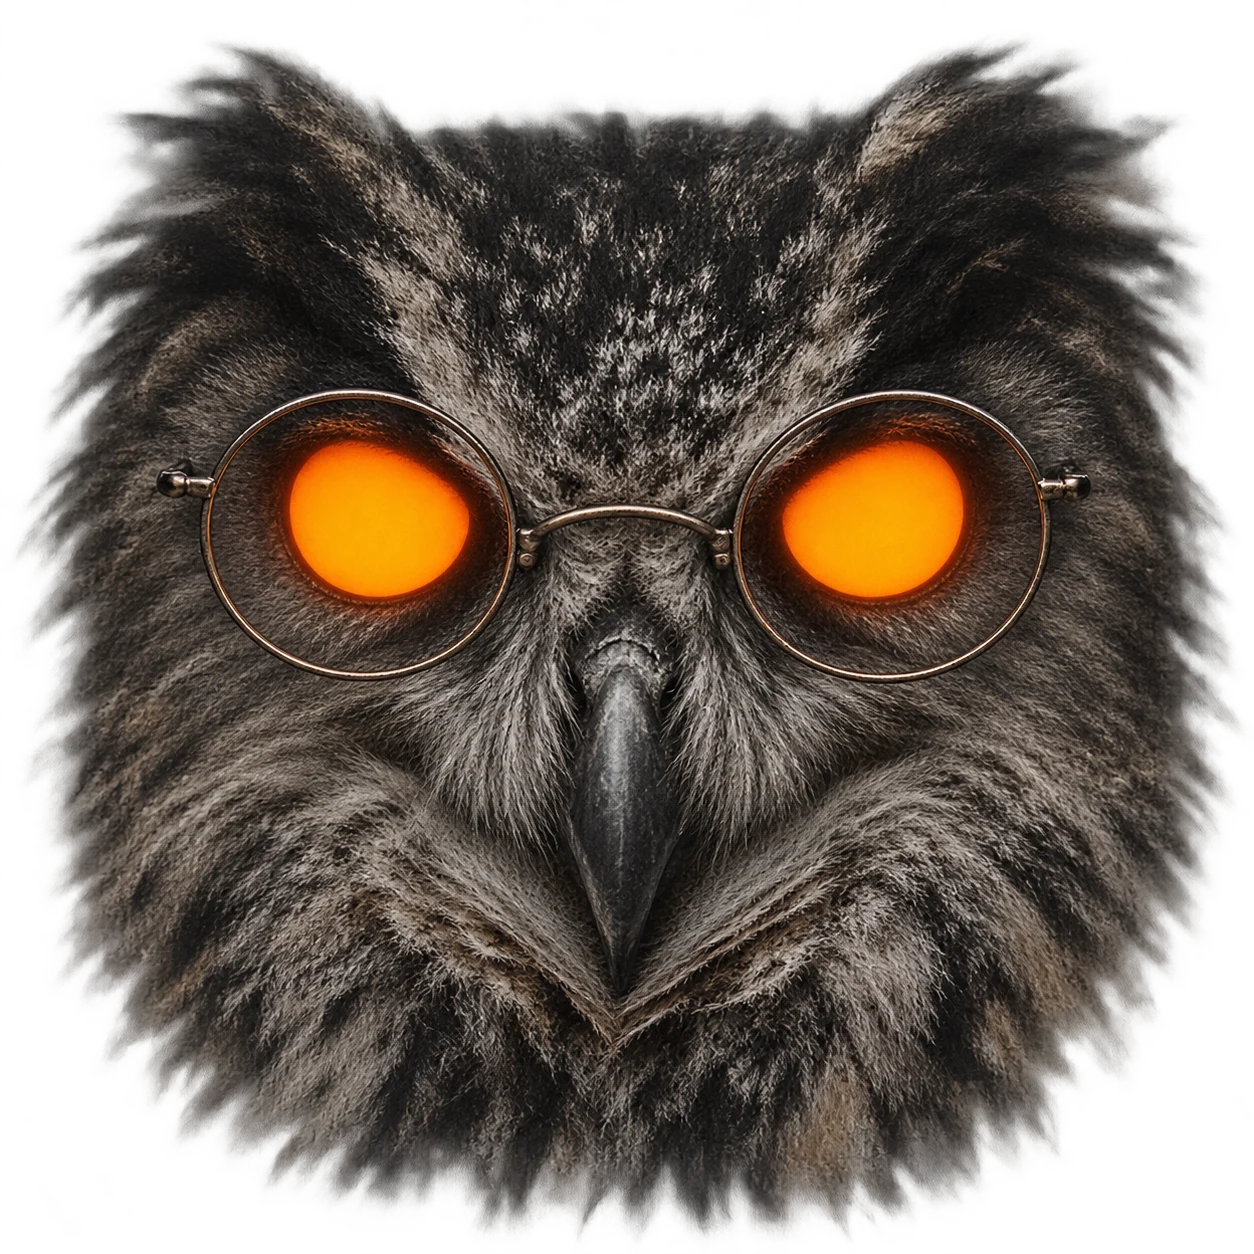
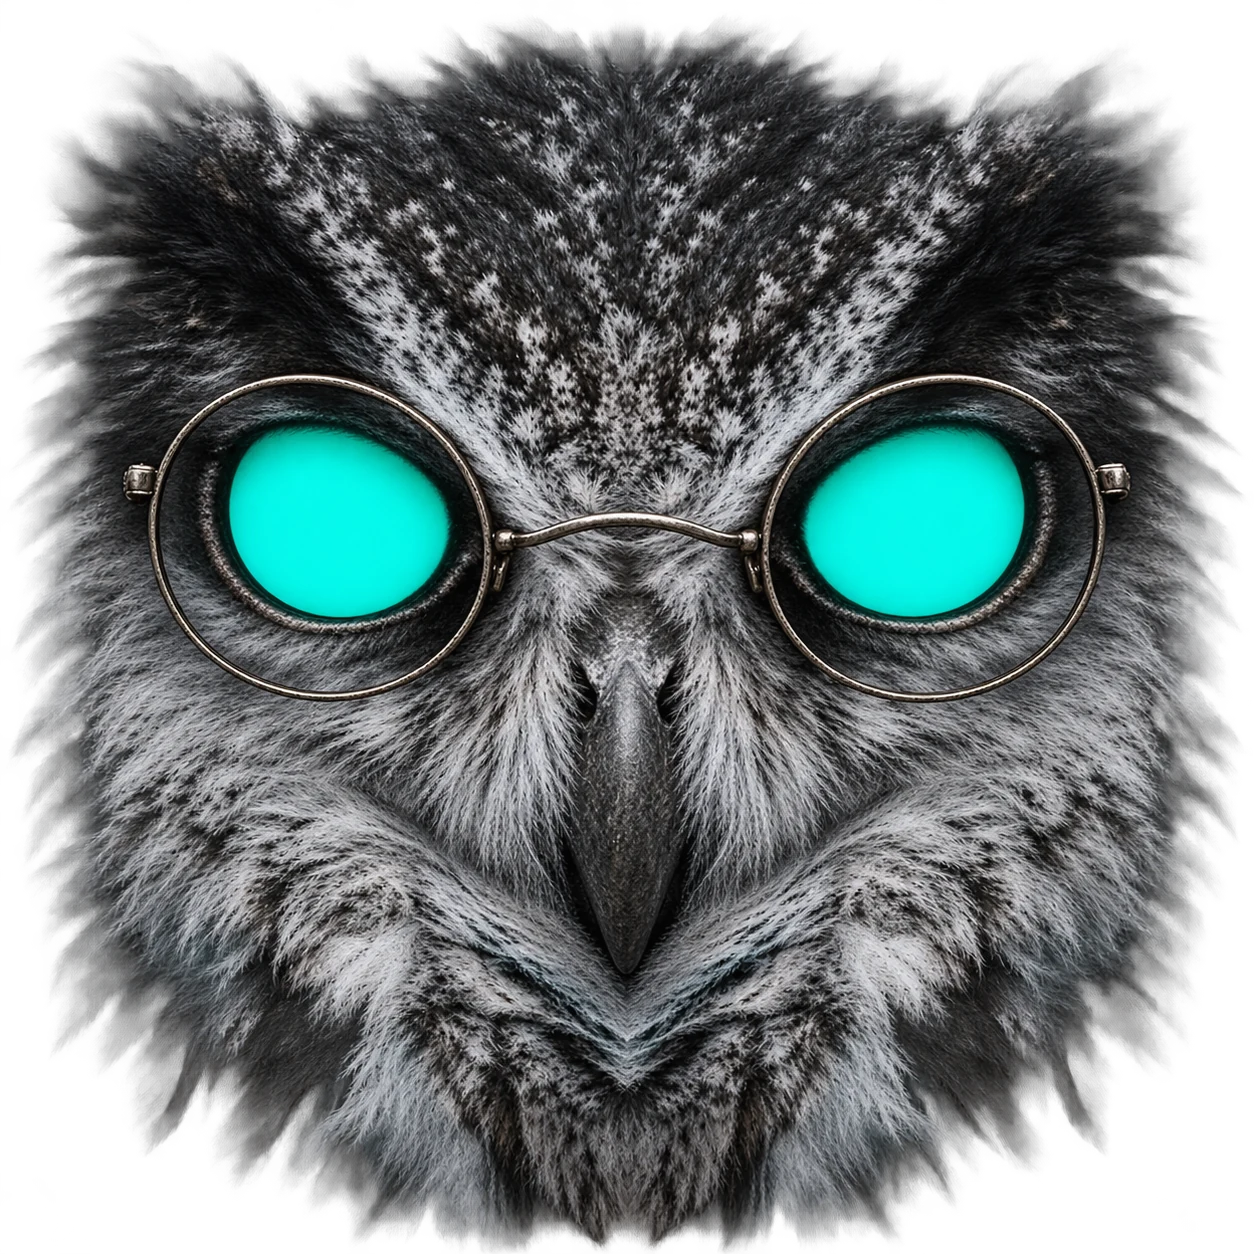
T39B: bộ ảnh cú xám mắt lam ngọc, cử động theo con trỏ, vẫy cánh bằng khung hình
Ảnh mới hiệu chuẩn lại; mắt bầu dục nên rig lưu rx/ry. Mỗi biến thể một
<img> nạp sẵn bật/tắt bằng opacity, tọa độ mắt riêng từng biến thể. Cử
động: mặt xoay đầu 3D theo con trỏ, giáo sư nghiêng người, thở, gật/rung
theo phán quyết, vẫy cánh khi tấm giới thiệu hiện và khi bấm. PROMPTS.md
thêm bốn cử chỉ cần ảnh (wave, think, shock, happy) — trang tự dùng khi có.

diff --git a/src/vihallulens/serve/static/index.html b/src/vihallulens/serve/static/index.html
@@ -80,7 +80,13 @@
   .side .stat span { font-size: .82rem; display: block; }
   @media (max-width: 1100px) { .side { display: none; } }
   .layer { position: absolute; left: 50%; top: 50%; transform: translate(-50%, -50%); will-change: transform, opacity; }
+  .layer .inner, .layer .breath { position: absolute; inset: 0; transform-origin: 50% 100%; }
+  .layer .inner { transition: transform .25s ease-out; }
+  #prof .breath { animation: breath 4.2s ease-in-out infinite; }
+  @keyframes breath { 50% { transform: scaleY(1.012) scaleX(.996); } }
+  .layer.nod .inner { animation: nod .7s; } .layer.shake .inner { animation: shake .45s; }
   .layer img, .layer svg.fallback { position: absolute; inset: 0; width: 100%; height: 100%; object-fit: contain; display: block; }
+  .layer img.off { opacity: 0 !important; }
   .layer .eye { position: absolute; border-radius: 50%; transform: translate(-50%, -50%); }
   .layer .eye .iris { position: absolute; inset: 0; border-radius: 50%;
                       --i1: #e2fffb; --i2: #2ee6d4; --i3: #0b9d92; --i4: #063a37; --g: var(--eye-glow);
@@ -105,9 +111,9 @@
   body.boot.lids .layer .eye .lid { transform: scaleY(1); transition: transform .35s; }
   body.boot .layer .eye .iris { transition: box-shadow 1s; }
   body.boot .layer img, body.boot .layer svg.fallback { opacity: 0; }
-  .layer img, .layer svg.fallback { transition: opacity 1.2s ease; }
+  body.fade .layer img, body.fade .layer svg.fallback { transition: opacity 1.2s ease; }  /* only for the opening fade-in */
   #face { width: min(108vmin, 1100px); aspect-ratio: 1; z-index: 2; top: 60%; }
-  #prof { width: min(78vh, 620px); aspect-ratio: 4/5; z-index: 2; opacity: 0; pointer-events: none; }
+  #prof { width: min(78vh, 620px); aspect-ratio: 4/5; z-index: 2; opacity: 0; }
   #branch { position: absolute; left: -4%; bottom: 6%; width: 70vw; max-width: 900px; z-index: 3; opacity: 0; pointer-events: none; }
   #branch img { width: 100%; display: block; }
   #intro { position: absolute; z-index: 4; left: 50%; top: 50%; width: min(520px, 92vw); transform: translate(-50%, -50%); opacity: 0; pointer-events: none;
@@ -122,7 +128,7 @@
   @keyframes bob { 50% { transform: translate(-50%, 6px); } }
   /* the torch: everything dark except around the pointer */
   /* the torch is a mask on the owl itself: feathers show only around the pointer, text is never dimmed */
-  #face.torch > img, #face.torch > svg.fallback {
+  #face.torch img, #face.torch svg.fallback {
     -webkit-mask-image: radial-gradient(ellipse 26% 26% at var(--fx, 50%) var(--fy, 50%), #000 0, rgba(0,0,0,.85) 45%, rgba(0,0,0,.05) 100%);
     mask-image: radial-gradient(ellipse 26% 26% at var(--fx, 50%) var(--fy, 50%), #000 0, rgba(0,0,0,.85) 45%, rgba(0,0,0,.05) 100%); }
   #torch { display: none; }
@@ -703,35 +709,62 @@ GET  /health       loading | ok | error</code></pre>
     return tpl.outerHTML;
   }
   class OwlLayer {
+    // host > .inner (pointer-driven tilt/lean) > .breath (idle breathing) > img|svg + eyes
     constructor(host, kind, rig) {
-      this.host = host; this.kind = kind; this.eyes = [];
+      this.host = host; this.kind = kind; this.eyes = []; this.variant = "base"; this.busy = false;
       const cfg = rig && rig[kind];
       this.cfg = cfg || FALLBACK[kind];
-      host.innerHTML = "";
+      host.innerHTML = `<div class="inner"><div class="breath"></div></div>`;
+      this.stage = host.querySelector(".breath"); this.inner = host.querySelector(".inner");
       if (cfg && cfg.file) {
-        const img = document.createElement("img"); img.src = cfg.file; img.alt = ""; img.decoding = "async";
-        img.onerror = () => { this.cfg = FALLBACK[kind]; this.build(FALLBACK[kind].svg()); };
-        this.img = img; host.appendChild(img);
+        // one <img> per variant, all loaded up front; a variant change only toggles which one shows
+        this.imgs = {};
+        const add = (name, file) => { const img = document.createElement("img"); img.src = file; img.alt = ""; img.decoding = "async"; img.classList.toggle("off", name !== "base"); this.stage.appendChild(img); this.imgs[name] = img; return img; };
+        add("base", cfg.file).onerror = () => { this.cfg = FALLBACK[kind]; this.build(FALLBACK[kind].svg()); };
+        Object.entries(cfg.variants || {}).forEach(([name, v]) => add(name, v.file));
+        this.img = this.imgs.base;
         if (cfg.aspect) host.style.aspectRatio = String(cfg.aspect);
-        for (const k of Object.keys(cfg)) if (/^img\//.test(String(cfg[k])) && k !== "file") { const pre = new Image(); pre.src = cfg[k]; }  // variants swap instantly
-        this.buildEyes();
+        this.buildEyes(cfg.eyes);
       } else this.build(FALLBACK[kind].svg());
     }
-    build(svg) { this.host.querySelectorAll("img, svg.fallback, .eye").forEach((n) => n.remove()); this.host.insertAdjacentHTML("afterbegin", svg); this.buildEyes(); }
-    buildEyes() {
-      this.host.querySelectorAll(".eye").forEach((n) => n.remove()); this.eyes = [];
-      this.cfg.eyes.forEach((e, i) => {
+    build(svg) { this.stage.querySelectorAll("img, svg.fallback").forEach((n) => n.remove()); this.img = null; this.imgs = null; this.stage.insertAdjacentHTML("afterbegin", svg); this.buildEyes(this.cfg.eyes); }
+    buildEyes(eyes) {
+      this.stage.querySelectorAll(".eye").forEach((n) => n.remove()); this.eyes = [];
+      const ar = this.cfg.aspect || (this.kind === "prof" ? 0.8 : 1), k = 1.06;  // a hair larger than the painted disc
+      eyes.forEach((e) => {
         const el = document.createElement("div"); el.className = "eye";
-        // r is a fraction of the image WIDTH; height uses the aspect so the eye stays round
-        const ar = this.cfg.aspect || (this.kind === "prof" ? 0.8 : 1);
+        const rx = e.rx ?? e.r, ry = e.ry ?? e.r * ar;   // fractions of width / height
         el.style.left = (100 * e.cx) + "%"; el.style.top = (100 * e.cy) + "%";
-        const k = 1.06;  // a hair larger than the painted disc; the glow covers the rest
-        el.style.width = (200 * e.r * k) + "%"; el.style.height = (200 * e.r * ar * k) + "%";
+        el.style.width = (200 * rx * k) + "%"; el.style.height = (200 * ry * k) + "%";
         el.innerHTML = `<div class="iris"></div><div class="pupil"></div><div class="lid"></div>`;
-        this.host.appendChild(el); this.eyes.push(el);
+        this.stage.appendChild(el); this.eyes.push(el);
       });
     }
-    setVariant(name) { if (!this.img || !this.cfg[name] && name !== "base") return; const want = name === "base" ? this.cfg.file : this.cfg[name]; if (this.img.getAttribute("src") !== want) this.img.src = want; }
+    has(name) { return !!(this.cfg.variants && this.cfg.variants[name]); }
+    setVariant(name) {
+      if (!this.img) return;
+      const v = name === "base" ? { file: this.cfg.file, eyes: this.cfg.eyes } : this.cfg.variants && this.cfg.variants[name];
+      if (!v || this.variant === name) return;
+      this.variant = name; Object.entries(this.imgs).forEach(([n, img]) => { img.classList.toggle("off", n !== name); }); this.buildEyes(v.eyes || this.cfg.eyes);
+    }
+    // play a list of [variant, ms] frames, then return to base
+    play(frames, done) {
+      if (!this.img || this.busy) return; this.busy = true;
+      const step = (i) => { if (i >= frames.length) { this.setVariant("base"); this.busy = false; done && done(); return; } this.setVariant(frames[i][0]); setTimeout(() => step(i + 1), frames[i][1]); };
+      step(0);
+    }
+    wave() {
+      const f = this.has("wave") ? [["point", 200], ["wave", 260], ["point", 220], ["wave", 260], ["point", 220]] : [["point", 260], ["base", 220], ["point", 260], ["base", 220], ["point", 300]];
+      this.play(f);
+    }
+    // pointer-driven body language: the face turns its head (3D tilt), the professor leans on his feet
+    lean(px, py, strength = 1) {
+      const r = this.host.getBoundingClientRect(); if (!r.width) return;
+      const nx = Math.max(-1, Math.min(1, (px - (r.left + r.width / 2)) / (innerWidth / 2)));
+      const ny = Math.max(-1, Math.min(1, (py - (r.top + r.height / 2)) / (innerHeight / 2)));
+      if (this.kind === "face") this.inner.style.transform = `perspective(1200px) rotateY(${(nx * 9 * strength).toFixed(2)}deg) rotateX(${(-ny * 6 * strength).toFixed(2)}deg)`;
+      else this.inner.style.transform = `rotate(${(nx * 4 * strength).toFixed(2)}deg) translateX(${(nx * 10 * strength).toFixed(1)}px)`;
+    }
     look(px, py) {
       if (this.host.classList.contains("sleep")) return;
       this.eyes.forEach((el) => {
@@ -740,8 +773,10 @@ GET  /health       loading | ok | error</code></pre>
         const m = Math.min(1, d / 300) * r.width * 0.22;
         el.querySelector(".pupil").style.transform = `translate(calc(-50% + ${(dx / d * m).toFixed(1)}px), calc(-50% + ${(dy / d * m).toFixed(1)}px))`;
       });
+      if (this.host.id === "face" || this.host.id === "prof") this.lean(px, py);
     }
     blink(ms = 140) { this.host.classList.add("blink"); setTimeout(() => this.host.classList.remove("blink"), ms); }
+    act(cls, ms) { this.host.classList.add(cls); setTimeout(() => this.host.classList.remove(cls), ms); }
     screenEyes() { return this.eyes.map((el) => { const r = el.getBoundingClientRect(); return { x: r.left + r.width / 2, y: r.top + r.height / 2, on: r.width > 0 && getComputedStyle(this.host).opacity !== "0" }; }); }
   }
   const layers = [];
@@ -759,7 +794,8 @@ GET  /health       loading | ok | error</code></pre>
     if (reduced || !document.body.classList.contains("boot")) { document.body.classList.remove("boot", "lids"); return; }
     setTimeout(() => document.body.classList.remove("lids"), 600);
     setTimeout(() => face.blink(180), 1500);
-    setTimeout(() => { document.body.classList.remove("boot"); }, 2100);
+    setTimeout(() => { document.body.classList.add("fade"); document.body.classList.remove("boot"); }, 2100);
+    setTimeout(() => document.body.classList.remove("fade"), 3500);
   }
   if (!new URLSearchParams(location.search).has("noboot")) document.body.classList.add("boot", "lids");
 
@@ -805,7 +841,8 @@ GET  /health       loading | ok | error</code></pre>
       ? `translateY(${(40 - 40 * s3).toFixed(1)}px)`
       : `translate(calc(-50% - 24vw), calc(-50% + ${(40 - 40 * s3).toFixed(1)}px))`;
     intro.classList.toggle("on", s3 > .6);
-    if (prof) prof.setVariant(s3 > .5 ? "point" : "base");
+    if (prof && !prof.busy) prof.setVariant(s3 > .5 ? "point" : "base");
+    if (prof && s3 > .6 && !window.__waved) { window.__waved = true; setTimeout(() => { prof.wave(); say("Chào! Tôi là Lens, người gác đêm của trang này."); }, 300); }
     hint.style.opacity = p < .05 ? "1" : "0";
     paintTorch();
     $("side-l").style.opacity = $("side-r").style.opacity = (1 - span(p, .05, .3)).toFixed(3);
@@ -847,6 +884,11 @@ GET  /health       loading | ok | error</code></pre>
   function verdict(label, ms = 4000) {
     root.classList.remove("v-no", "v-intrinsic", "v-extrinsic"); root.classList.add("v-" + label);
     layers.forEach((l) => l.blink(120));
+    if (prof) {
+      if (label === "no") { prof.act("nod", 700); if (prof.has("happy")) prof.play([["happy", 1800]]); }
+      else if (label === "intrinsic") { if (prof.has("think")) prof.play([["think", 2200]]); }
+      else { prof.act("shake", 450); if (prof.has("shock")) prof.play([["shock", 1800]]); }
+    }
     clearTimeout(verdictT); verdictT = setTimeout(() => root.classList.remove("v-" + label), ms);
     say(label === "no" ? "Bám sát ngữ cảnh. Tôi yên tâm." : label === "intrinsic" ? "Có đọc ngữ cảnh… mà nói lệch. Nội tại." : "Chỗ này không có trong ngữ cảnh!");
   }
@@ -856,6 +898,9 @@ GET  /health       loading | ok | error</code></pre>
   ["pointermove", "scroll", "keydown", "click", "touchstart"].forEach((ev) => addEventListener(ev, wake, { passive: true }));
   buddy.addEventListener("click", () => say(["Kéo xuống demo thử đi!", "Tôi nhìn đoạn nào, tô đoạn đó.", "87,8 % — không phải hú họa.", "Đừng tin nhãn ba lớp quá, hãy tin điểm rủi ro."][Math.floor(Math.random() * 4)]));
   $("buddy-off").onclick = () => { buddy.classList.add("hidden"); $("buddy-off").style.display = "none"; };
+  $("prof").addEventListener("click", () => { if (prof) { prof.wave(); say(["Chào bạn!", "Cuộn tiếp đi, còn nhiều lắm.", "Tôi chấm 700 mẫu, trùng 700 với chính tôi."][Math.floor(Math.random() * 3)]); } });
+  $("face").addEventListener("click", () => { if (face) { face.blink(120); setTimeout(() => face.blink(120), 260); say("Nhìn gì? Tôi mới là người nhìn."); } });
+  $("prof").style.cursor = "pointer"; $("face").style.cursor = "pointer";
   const said = new Set();
   const notes = { problem: "Ba thẻ này chấm thật đấy, rê thử.", how: "Tôi không sinh chữ — chỉ đọc lại.", chunk: "Kéo thanh trượt xem hình dạng đổi.", numbers: "Số nào cũng có trong results/.", honest: "Phần này hội đồng sẽ hỏi. Nói trước.", demo: "Đến lượt bạn.", system: "pip install rồi ba dòng là xong." };
   const sectionIO = new IntersectionObserver((entries) => entries.forEach((en) => { const id = en.target.id; if (en.isIntersecting && !said.has(id) && notes[id]) { said.add(id); say(notes[id]); } }), { threshold: .35 });

diff --git a/scripts/calibrate_owl.py b/scripts/calibrate_owl.py
@@ -51,8 +51,8 @@ def eye_mask(rgba: np.ndarray, eye: str) -> np.ndarray:
     return alpha & (h >= lo) & (h <= hi) & (s >= MIN_SAT) & (v >= MIN_VAL)
 
 
-def components(mask: np.ndarray) -> list[tuple[int, float, float, float]]:
-    """(size, cx, cy, r) of each 4-connected blob, largest first. Pure numpy flood fill."""
+def components(mask: np.ndarray) -> list[tuple[int, float, float, float, float]]:
+    """(size, cx, cy, rx, ry) of each 4-connected blob, largest first. Pure numpy flood fill."""
     from collections import deque
 
     h, w = mask.shape
@@ -79,8 +79,8 @@ def components(mask: np.ndarray) -> list[tuple[int, float, float, float]]:
         # punches a hole in the amber blob and would shrink an area-based radius.
         (y0, x0), (y1, x1) = arr.min(axis=0), arr.max(axis=0)
         cx, cy = (x0 + x1) / 2, (y0 + y1) / 2
-        r = float(max(x1 - x0, y1 - y0) + 1) / 2
-        out.append((len(pts), float(cx), float(cy), r))
+        rx, ry = float(x1 - x0 + 1) / 2, float(y1 - y0 + 1) / 2
+        out.append((len(pts), float(cx), float(cy), rx, ry))
     out.sort(reverse=True)
     return out
 
@@ -101,8 +101,10 @@ def find_eyes(path: Path, eye: str) -> tuple[list[dict], tuple[int, int]]:
                          "đĩa màu trơn (xem PROMPTS.md), hoặc thử --eye khác")
     eyes = sorted(blobs[:2], key=lambda b: b[1])  # left eye first
     sw, sh = rgba.shape[1], rgba.shape[0]
-    return [{"cx": round(cx / sw, 4), "cy": round(cy / sh, 4), "r": round(r / sw, 4)}
-            for _, cx, cy, r in eyes], (w, h)
+    # r stays for older pages; rx/ry (fractions of width and height) let an oval eye be covered
+    return [{"cx": round(cx / sw, 4), "cy": round(cy / sh, 4), "r": round(max(rx, ry) / sw, 4),
+             "rx": round(rx / sw, 4), "ry": round(ry / sh, 4)}
+            for _, cx, cy, rx, ry in eyes], (w, h)
 
 
 def to_webp(src: Path, dst: Path, max_side: int) -> int:
@@ -142,17 +144,23 @@ def main() -> int:
     name = f"owl-{args.layer}.webp"
     size = to_webp(args.image, IMG / name, args.max_side)
     entry = {"file": f"img/{name}", "aspect": round(w / h, 4), "eyes": eyes}
+    entry["variants"] = {}
     for vname, vpath in args.variant:
         vfile = f"owl-{args.layer}-{vname}.webp"
         vsize = to_webp(Path(vpath), IMG / vfile, args.max_side)
-        entry[vname] = f"img/{vfile}"
+        try:
+            veyes, _ = find_eyes(Path(vpath), args.eye)
+        except SystemExit:
+            veyes = eyes  # same pose, eyes not found: reuse the base positions
+            print(f"  {vname}: không tìm thấy mắt, dùng tọa độ ảnh gốc")
+        entry["variants"][vname] = {"file": f"img/{vfile}", "eyes": veyes}
         print(f"  {vfile}: {vsize / 1e3:.0f} KB")
     rig[args.layer] = entry
     RIG.write_text(json.dumps(rig, ensure_ascii=False, indent=1) + "\n", encoding="utf-8")
     print(f"  {name}: {size / 1e3:.0f} KB, {w}×{h}")
     for i, e in enumerate(eyes):
-        print(f"  mắt {i + 1}: tâm ({e['cx']:.3f}, {e['cy']:.3f}) bán kính {e['r']:.3f} "
-              "(tỷ lệ theo bề rộng)")
+        print(f"  mắt {i + 1}: tâm ({e['cx']:.3f}, {e['cy']:.3f}) bán kính ngang {e['rx']:.3f} "
+              f"dọc {e['ry']:.3f} (tỷ lệ theo bề rộng / bề cao)")
     if size > 2_000_000:
         print("  CẢNH BÁO: ảnh trên 2 MB, hạ --max-side")
     print(f"  ghi {RIG.relative_to(ROOT)}")

diff --git a/src/vihallulens/serve/static/img/PROMPTS.md b/src/vihallulens/serve/static/img/PROMPTS.md
@@ -77,6 +77,26 @@ Giữ nguyên nhân vật qua cả bộ. Phong cách: **3D siêu thực như ả
 > the bars — most of the light lands on the second bar, which glows; the others stay dim. Clean
 > geometric style, no readable text, no people, 16:10.
 
+## Cử chỉ thêm — mỗi cử chỉ một ảnh, cùng tư thế gốc của `owl-prof.png`
+
+Trang đã có sẵn cơ chế khung hình: mỗi biến thể là một ảnh, tên biến thể quyết định lúc nào
+dùng. Không có ảnh thì trang tự dùng cử chỉ thay thế (vẫy bằng hai khung base/point, gật, rung).
+
+| Biến thể | Trang dùng khi | Prompt (kèm ảnh `owl-prof.png` làm tham chiếu, giữ y hệt mọi thứ) |
+|---|---|---|
+| `wave` | chào khi tấm giới thiệu hiện, bấm vào cú | *…except the right wing is raised high above the head, feathers spread open, mid-wave as if greeting someone.* |
+| `think` | bộ phát hiện đang chấm, phán quyết nội tại | *…except the right wing is bent so the wingtip touches the chin, head tilted slightly, a pondering pose.* |
+| `shock` | phán quyết ngoại lai | *…except both wings are spread wide and the feathers on the head are puffed up, startled.* |
+| `happy` | phán quyết trung thực | *…except the right wing rests on the chest and the body leans forward slightly, a small satisfied bow.* |
+
+Mở đầu mỗi prompt: *Identical to the reference image in every detail — same owl, glasses, lab
+coat, branch, lighting, framing and flat turquoise eyes —*. Rồi hiệu chuẩn **tất cả biến thể trong
+một lệnh** (lệnh này ghi lại toàn bộ danh sách biến thể):
+
+```
+python scripts/calibrate_owl.py prof owl-prof.png --variant point owl-prof-point.png     --variant wave owl-prof-wave.png --variant think owl-prof-think.png     --variant shock owl-prof-shock.png --variant happy owl-prof-happy.png
+```
+
 Ảnh cú tĩnh cho slide bảo vệ (không dùng trên trang, mắt bình thường có đồng tử):
 
 > Same grey owl professor with round glasses and a white lab coat, glowing turquoise eyes with

diff --git a/TASKS.md b/TASKS.md
@@ -4570,6 +4570,17 @@ kết quả (JSON T36 không lưu `context`), **không phải** lỗi bộ phát
   không."; prompt viết lại bám ảnh cú đại bàng tham chiếu, hai phong cách (3D siêu thực / cú
   bông 3D); script hiệu chuẩn đo bán kính theo khung bao nên chịu được đồng tử và điểm sáng.
 
+  Lượt 3 (cùng ngày): ảnh thật về. Bộ đầu mắt cam, bộ hai mắt lam ngọc theo `original.jpg`
+  người dùng đưa; trang vẽ đè mống mắt nên đổi màu mắt không cần sinh lại. Mắt trong mặt cận
+  là hình bầu dục → script lưu `rx`/`ry` riêng. Cử động thêm, không cần ảnh mới: mặt xoay đầu
+  3D theo con trỏ, giáo sư nghiêng người trên chân, thở, gật khi `no`, rung khi `extrinsic`,
+  vẫy cánh (hai khung base/point) khi tấm giới thiệu hiện và khi bấm. Cơ chế khung hình: mỗi
+  biến thể một `<img>` nạp sẵn, bật/tắt bằng opacity, **mỗi biến thể có tọa độ mắt riêng** (ảnh
+  giơ cánh lệch khung so với ảnh gốc); PROMPTS.md liệt kê bốn cử chỉ cần ảnh (wave, think,
+  shock, happy) và trang tự dùng chúng khi có. Hai bẫy đã gặp: `hidden` thua `display:block`
+  của rule `.layer img`; `transition: opacity 1.2s` của màn mở đầu làm khung cũ mờ dần trong khi
+  mắt đã sang khung mới → giờ chỉ bật transition trong 1,3 s mở đầu.
+
   Kiểm bằng Edge headless: `?noboot` bỏ màn mở đầu, `?p=0.6` ghim hero ở một nhịp để chụp.
   Một cái bẫy đã gặp: headless đóng băng transition CSS giữa chừng nên mí mắt trông "kẹt" — chỉ
   là ảnh chụp, không phải lỗi trang; đã chuyển chớp mắt mở màn sang JS để khỏi lẫn.
